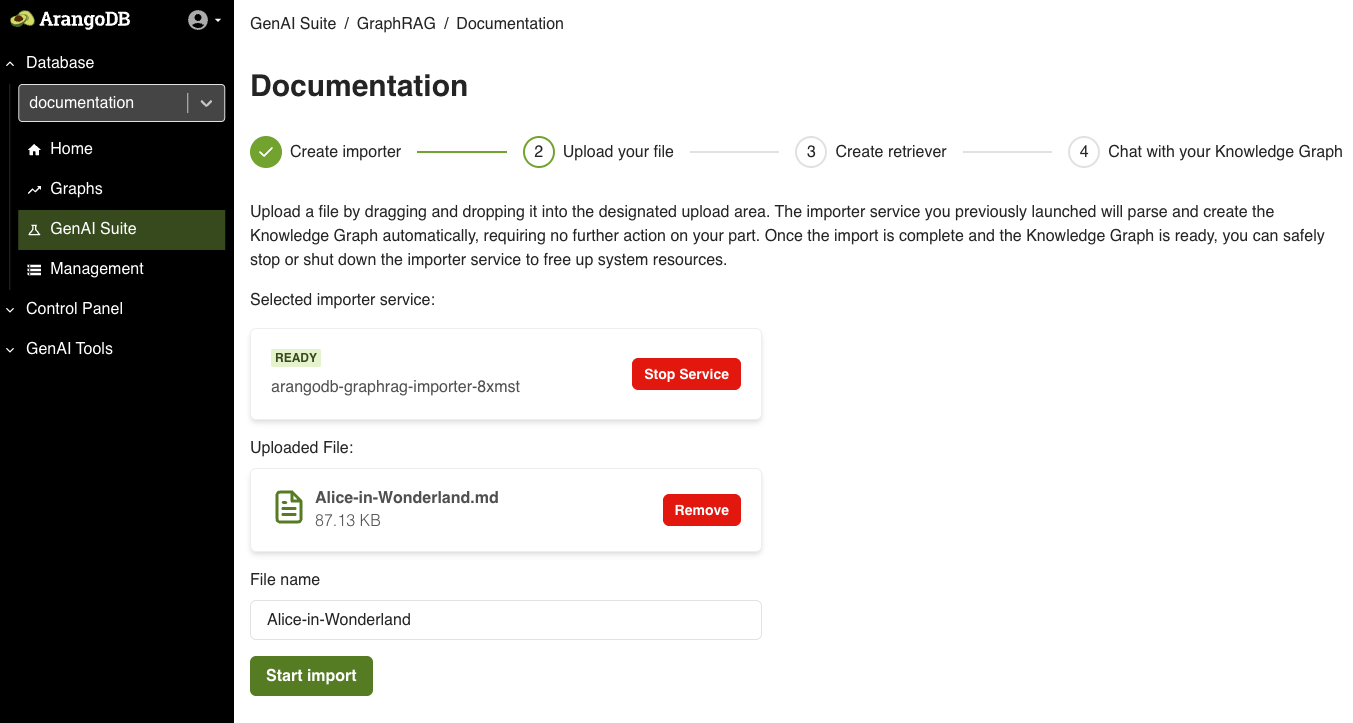
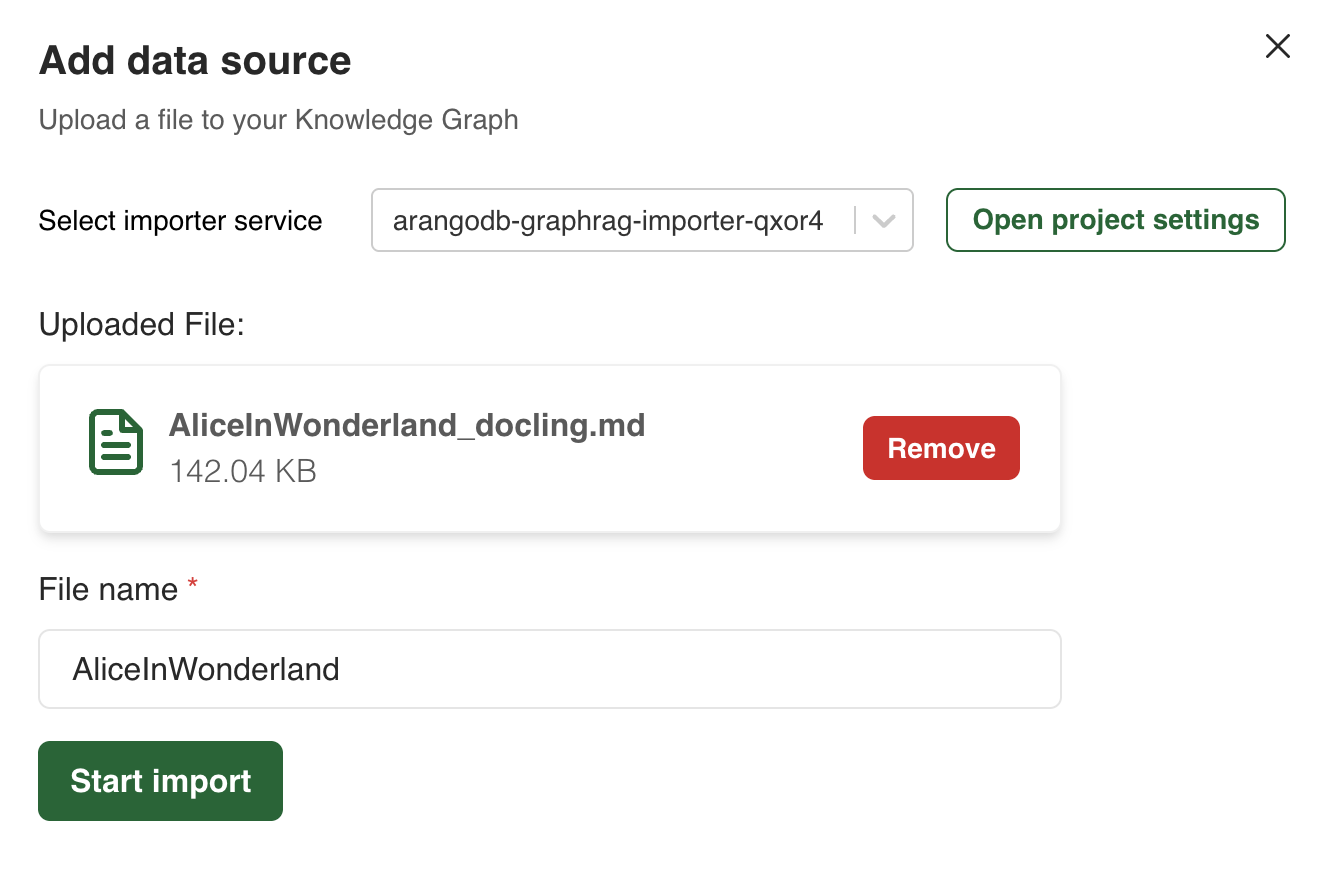
DOC-800 | New GraphRAG UI steps (#805)
* new graphrag ui

* finalize content, remove unnecessary screenshots, apply to all versions

* update screenshot, fix typo

* Fix image reference

---------

diff --git a/site/content/ai-suite/graphrag/web-interface.md b/site/content/ai-suite/graphrag/web-interface.md
@@ -3,8 +3,7 @@ title: How to use GraphRAG in the Arango Data Platform web interface
 menuTitle: Web Interface
 weight: 20
 description: >-
- Learn how to create, configure, and run a full GraphRAG workflow in four steps
- using the Platform web interface
+ Learn how to create, configure, and run a full GraphRAG workflow in just a few steps
 ---
 {{< tip >}}
 The Arango Data Platform & AI Suite are available as a pre-release. To get
@@ -17,9 +16,10 @@ the Arango team.
 The entire process is organized into sequential steps within a **Project**:
 
 1. Creating the importer service
-2. Uploading your file and exploring the generated Knowledge Graph
-3. Creating the retriever service
-4. Chatting with your Knowledge Graph
+2. Adding data sources
+3. Exploring the generated Knowledge Graph
+4. Creating the retriever service
+5. Chatting with your Knowledge Graph
 
 ## Create a GraphRAG project
 
@@ -33,12 +33,22 @@ To create a new GraphRAG project using the Arango Data Platform web interface, f
    a description for your project.
 5. Click the **Create project** button to finalize the creation.
 
+## Project Settings
+
+The **Project Settings** dialog allows you to configure and manage your
+Importer and Retriever services.
+
+You can open the **Project Settings** dialog in two ways:
+- In the **Data Sources** section, click **Add data source** and then click on
+  the **Open project settings** button.
+- In the **Graph** section, click on the gear icon.
+
 ## Configure the Importer service
 
-Configure a service to import, parse, and retrieve all the needed data from a
+Configure a service to import, parse, and extract all the needed data from a
 file. This service uses the LLM API provider and model of your choice.
 
-After clicking on a project name, you are taken to a screen where you can
+After opening the **Project Settings**, you are taken to a dialog where you can
 configure and start a new importer service job. Follow the steps below.
 
 {{< tabs "importer-service" >}}
@@ -49,24 +59,20 @@ configure and start a new importer service job. Follow the steps below.
    the service is using **O4 Mini**.
 3. Enter your **OpenAI API Key**.
 4. Click the **Start importer service** button.
-
-![Configure Importer service using OpenAI](../../images/graphrag-ui-configure-importer-openai.png) 
 {{< /tab >}}
 
 {{< tab "OpenRouter" >}}
 1. Select **OpenRouter** from the **LLM API Provider** dropdown menu.
 2. Select the model you want to use from the **Model** dropdown menu. By default,
-   the service is using **Mistral AI - Mistral Nemo**.
-1. Enter your **OpenAI API Key**.
-2. Enter your **OpenRouter API Key**.
-3. Click the **Start importer service** button.
+   the service uses **Mistral AI - Mistral Nemo**.
+3. Enter your **OpenAI API Key**.
+4. Enter your **OpenRouter API Key**.
+5. Click the **Start importer service** button.
 
 {{< info >}}
-When using the OpenRouter option, the LLM responses are served via OpenRouter
-while OpenAI is used for the embedding model.
+When using OpenRouter, you need both API keys because the LLM responses are served
+via OpenRouter while OpenAI is used for the embedding model.
 {{< /info >}}
-
-![Configure Importer service using OpenRouter](../../images/graphrag-ui-configure-importer-openrouter.png)
 {{< /tab >}}
 
 {{< tab "Triton LLM Host" >}}
@@ -78,39 +84,59 @@ while OpenAI is used for the embedding model.
 Note that you must first register your model in MLflow. The [Triton LLM Host](../reference/triton-inference-server.md)
 service automatically downloads and loads models from the MLflow registry.
 {{< /info >}}
-
-![Configure Importer service using Triton](../../images/graphrag-ui-configure-importer-triton.png)
 {{< /tab >}}
 
 {{< /tabs >}}
 
-See also the [GraphRAG Importer](../reference/importer.md) service documentation.
+See also the [Importer](../reference/importer.md) service documentation.
 
-## Upload your file
+## Add data source
 
-1. Upload a file by dragging and dropping it in the designated upload area.
-   The importer service you previously launched parses and creates the
-   Knowledge Graph automatically.
-2. Enter a file name.
-3. Click the **Start import** button.
+To add your first data source:
+
+1. In the **Data Sources** section, click the **Add data source** button.
+2. Upload a file by dragging and dropping it in the designated upload area.
+   The importer service you previously configured will automatically parse the file
+   and create the Knowledge Graph.
+3. Enter a descriptive name for your file.
+4. Click the **Start import** button.
 
 {{< info >}}
-You can only import a single file, either in `.md` or `.txt` format.
+Currently, you can import one file at a time in either Markdown (`.md`) or
+plain text (`.txt`) format. Additional files can be added to update the Knowledge Graph.
 {{< /info >}}
 
 ![Upload file in GraphRAG web interface](../../images/graphrag-ui-upload-file.png)
 
 ## Explore the Knowledge Graph
 
-You can open and explore the Knowledge Graph that has been generated by clicking
-on the **Explore in visualizer** button.
+After your file is processed, you can view and explore the generated Knowledge Graph
+in the **Graph** section.
+
+![Explore Knowledge Graph in GraphRAG web interface](../../images/graphrag-ui-explore-knowledge-graph.png)
+
+For a more detailed exploration, click the **Explore** button to open the Knowledge Graph in the dedicated Graph Visualizer.
 
 For more information, see the [Graph Visualizer](../../data-platform/graph-visualizer.md) documentation.
 
+## Update the Knowledge Graph
+
+Once you have created your initial Knowledge Graph, you can update it by uploading 
+additional files using the same process described in the [Add data source](#add-data-source) section. 
+The importer service will automatically update the existing Knowledge Graph and 
+underlying collections with the new data.
+
+To update your Knowledge Graph:
+
+1. In the **Data Sources** section, click the **Add data source** button again.
+2. Upload a new file by dragging and dropping it in the designated upload area.
+3. The importer service will process the new file and update the existing Knowledge Graph along with the underlying collections.
+
 ## Configure the Retriever service
 
-Creating the retriever service allows you to extract information from
-the generated Knowledge Graph. Follow the steps below to configure the service.
+The retriever service enables you to query and extract information from
+the generated Knowledge Graph. To configure the retriever service, open the 
+**Project Settings** and follow the steps below.
 
 {{< tabs "retriever-service" >}}
 
@@ -120,8 +146,6 @@ the generated Knowledge Graph. Follow the steps below to configure the service.
    the service uses **O4 Mini**.
 3. Enter your **OpenAI API Key**.
 4. Click the **Start retriever service** button.
-
-![Configure Retriever Service using OpenAI](../../images/graphrag-ui-configure-retriever-openai.png)
 {{< /tab >}}
 
 {{< tab "OpenRouter" >}}
@@ -132,11 +156,9 @@ the generated Knowledge Graph. Follow the steps below to configure the service.
 4. Click the **Start retriever service** button.
 
 {{< info >}}
-When using the OpenRouter option, the LLM responses are served via OpenRouter
-while OpenAI is used for the embedding model.
+When using OpenRouter, the LLM responses are served via OpenRouter while OpenAI
+is used for the embedding model.
 {{< /info >}}
-
-![Configure Retriever Service using OpenRouter](../../images/graphrag-ui-configure-retriever-openrouter.png)
 {{< /tab >}}
 
 {{< tab "Triton LLM Host" >}}
@@ -148,27 +170,28 @@ while OpenAI is used for the embedding model.
 Note that you must first register your model in MLflow. The [Triton LLM Host](../reference/triton-inference-server.md)
 service automatically downloads and loads models from the MLflow registry.
 {{< /info >}}
-
-![Configure Retriever Service using Triton](../../images/graphrag-ui-configure-retriever-triton.png)
 {{< /tab >}}
 
 {{< /tabs >}}
 
-See also the [GraphRAG Retriever](../reference/retriever.md) documentation.
+See also the [Retriever](../reference/retriever.md) documentation.
 
 ## Chat with your Knowledge Graph
 
-The Retriever service provides two search methods:
-- [Local search](../reference/retriever.md#local-search): Local queries let you
-  explore specific nodes and their direct connections.
-- [Global search](../reference/retriever.md#global-search): Global queries uncover
-  broader patters and relationships across the entire Knowledge Graph.
-
-![Chat with your Knowledge Graph](../../images/graphrag-ui-chat.png)
+The chat interface provides two search methods:
+- **Instant search**: Instant queries provide fast responses.
+- **Deep search**: This option will take longer to return a response.
 
 In addition to querying the Knowledge Graph, the chat service allows you to do the following:
-- Switch the search method from **Local Query** to **Global Query** and vice-versa
+- Switch the search method from **Instant search** to **Deep search** and vice-versa
   directly in the chat
-- Change the retriever service
+- Change or create a new retriever service
 - Clear the chat
-- Integrate the Knowledge Graph chat service into your own applications
+
+## Integrate the Knowledge Graph chat service into your application
+
+To integrate any service into your own applications,
+go to **Project Settings** and use the copy button next to each service to
+copy its integration endpoint. You cam make `POST` requests to the endpoints
+with your queries, the services accept `JSON` payloads and return structured
+responses for building custom interfaces.
